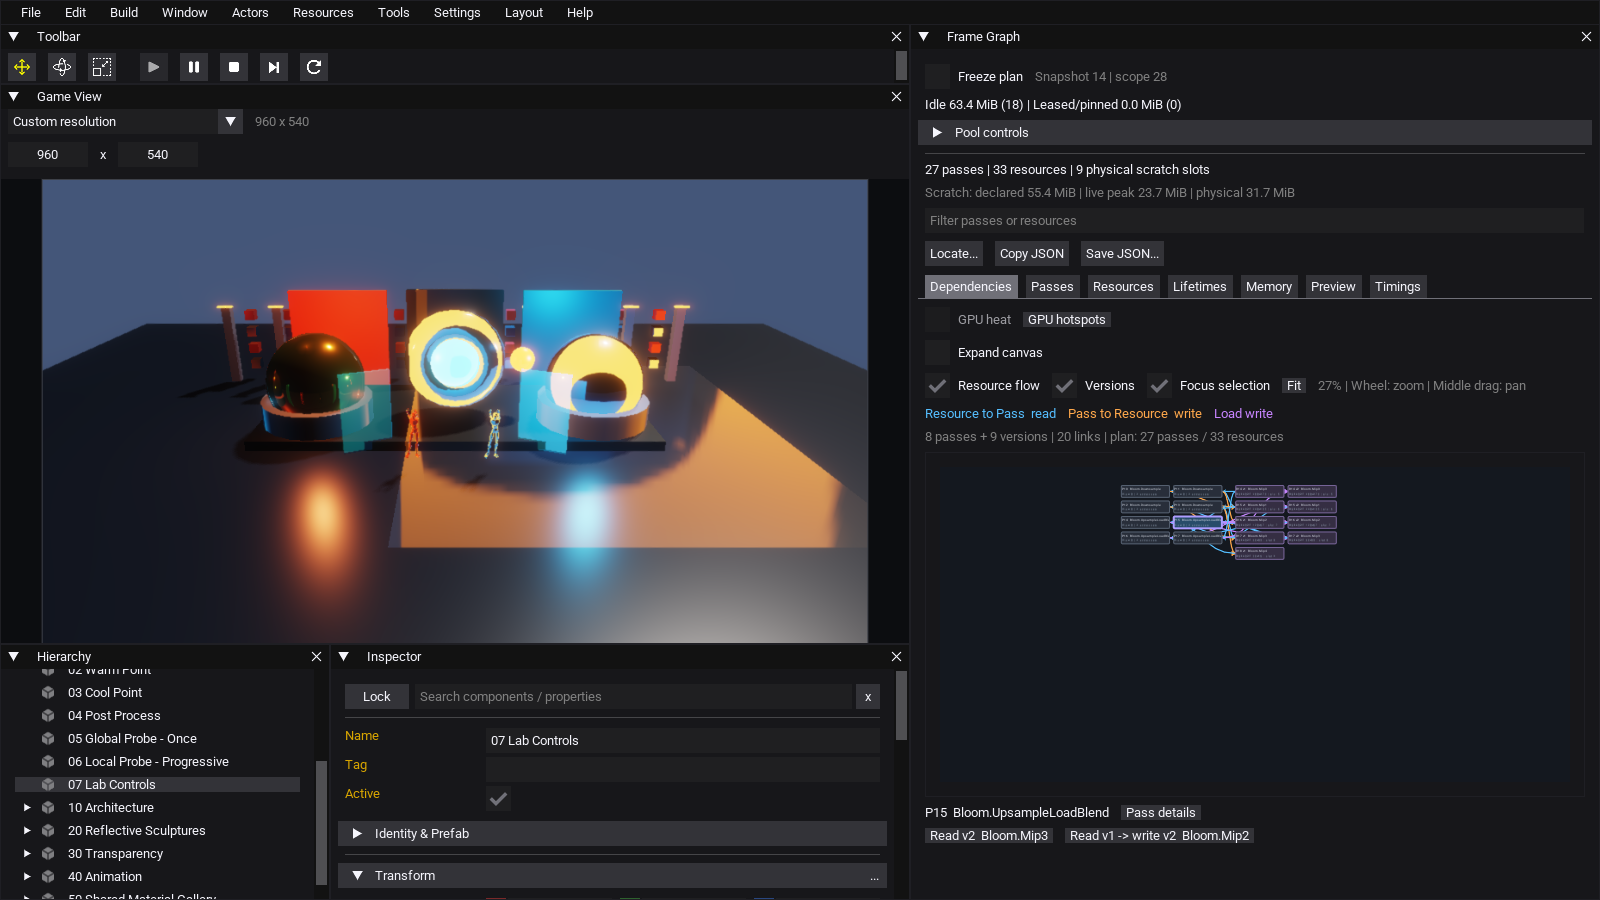
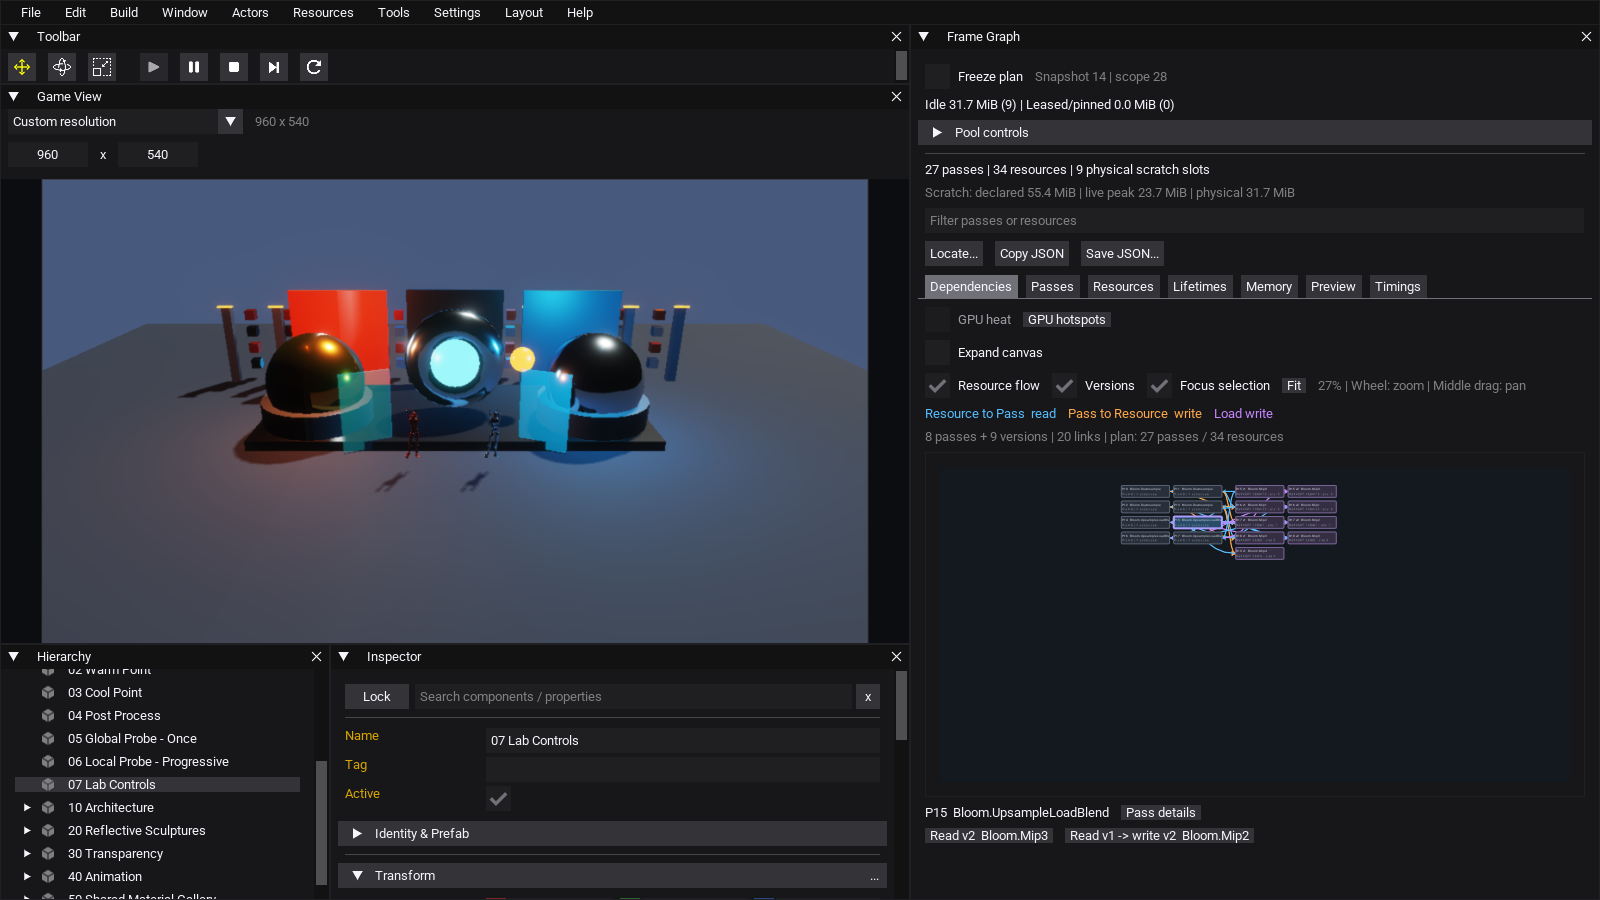
fix(examples): tune framegraph lab lighting and probes

Changed region(s): [[0.0, 0.3111, 0.5625, 0.7156], [0.625, 0.0933, 0.75, 0.1244]]

diff --git a/FRAMEGRAPH_LAB_VALIDATION.zh-CN.md b/FRAMEGRAPH_LAB_VALIDATION.zh-CN.md
@@ -66,3 +66,18 @@ Frame Graph 通用 Buffer 图、Pass 自动裁剪/重排、多后端 barrier/异
 减少不可见对象的材质/几何/骨骼快照准备。保留主视图之外的阴影与反射可见性，
 以本例的图契约和逐像素基线作正确性保护，再用 PerformanceLab 独占采样判断收益。
 本轮尚未实现该裁剪优化；没有把搭建场景算作帧率提升。
+
+## 本次画面校正（2026-10-06）
+
+人工检查原生预览时发现，金属地面作为一个很大的网格与局部 cubemap 探针相交，
+但当前材质按每个网格只选一个探针、shader 再按探针盒逐像素拒绝盒外 IBL，
+因此在地面形成明显的矩形反射/照明色块。最初把地面反射彻底关闭虽去掉色块，
+但也让基线画面过暗；最终改为粗糙、低金属度介电地面并保留 IBL，降低色块，
+同时将探针移离雕塑中心、调整金属粗糙度、灯光能量、曝光补偿和 Bloom。
+阴影覆盖范围由 38 收紧至 30，阴影图仍为 1024²，避免提高贴图分辨率带来的额外显存开销。
+
+更新后的 `Examples/FrameGraphLab/Preview.png` 与 `EditorOverview.png` 来自 Release Main
+产品进程的原生读回。再次运行 `node Tests/RenderingCommands/run-framegraph-lab.mjs Release`
+通过；本次资产组合的 Main/Render 两个 consumer 15 张画面逐字节一致，场景行为和图契约均通过。
+此处只调整示例场景/材质与截图，未改生产渲染器。项目没有 HDRI 天空环境，金属材质依赖
+场景 cubemap 捕获，所以观感是面向 pass 可视化的实验室基线，不应当解读为真实产品美术验收。

diff --git a/Examples/FrameGraphLab/README.zh-CN.md b/Examples/FrameGraphLab/README.zh-CN.md
@@ -43,6 +43,10 @@ Inspector，右侧 Frame Graph。使用生产 Editor、面板、Lua 和帧提交
 反射是 cubemap 探针；透明面板采用 alpha 混合。目前没有新增屏幕空间反射、光线追踪、
 真实折射、级联阴影或点光源阴影。这是有多种真实行为的前向渲染场景。
 
+场景基线使用较粗糙的介电地面，降低整块地面被单个局部探针选择时出现的突兀色块；
+金属球和环也使用更易读的粗糙度，曝光、Bloom 与点光能量经过调整，探针移离雕塑中心。
+这套场景用于逐 pass 检查，不是 HDRI 影棚渲染；金属环境主要来自场景几何体的 cubemap 捕获。
+
 ## 操作开关
 
 **先点击 Game View 的画面，再按快捷键。** 专用入口在 Game View 失去焦点或编辑文本时
